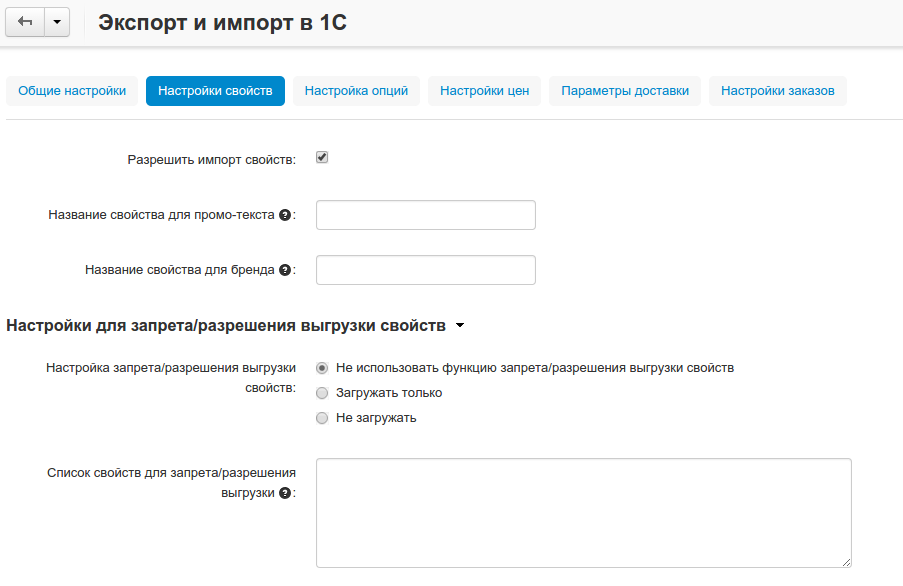
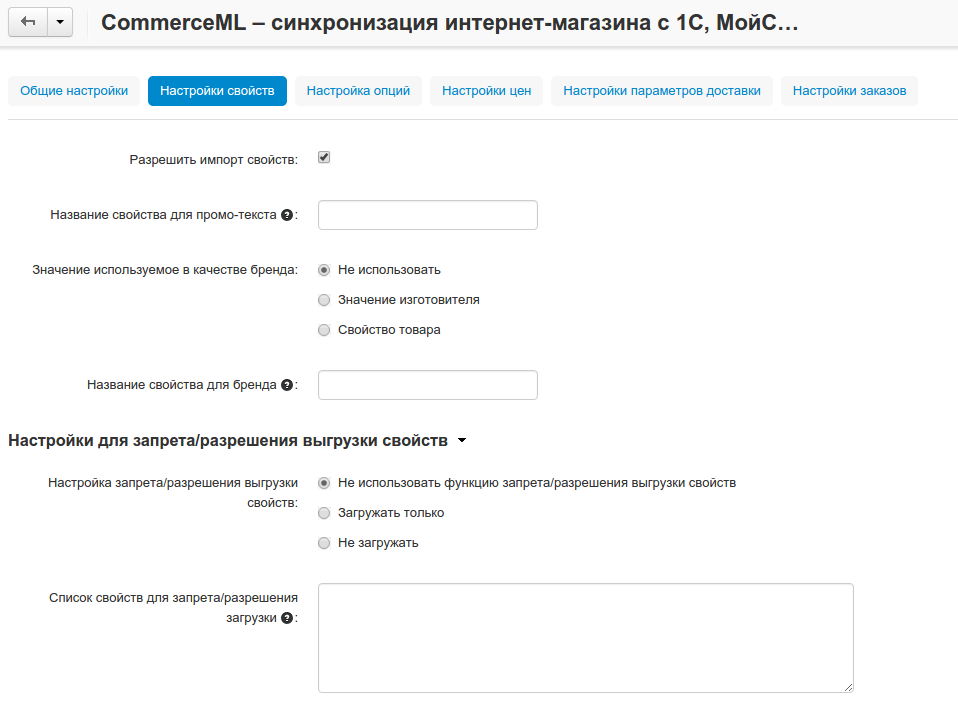
Ru: User Guide: CommerceML: MoySklad: Info about a setting added.

diff --git a/ru/user_guide/addons/commerceml/moy_sklad/index.rst b/ru/user_guide/addons/commerceml/moy_sklad/index.rst
@@ -235,6 +235,16 @@
 
         -   В качестве промо-текста для товара будет загружено значение указанного свойства из "МойСклад".
 
+    *   -   Значение используемое в качестве бренда
+
+        -   Параметр определяющий будет ли использоваться бренд:
+
+            *   Не использовать
+
+            *   Значение изготовителя
+
+            *   Свойство товара
+
     *   -   Название свойства для бренда
 
         -   В качестве бренда будет загружено указанное свойство из "МойСклад".
